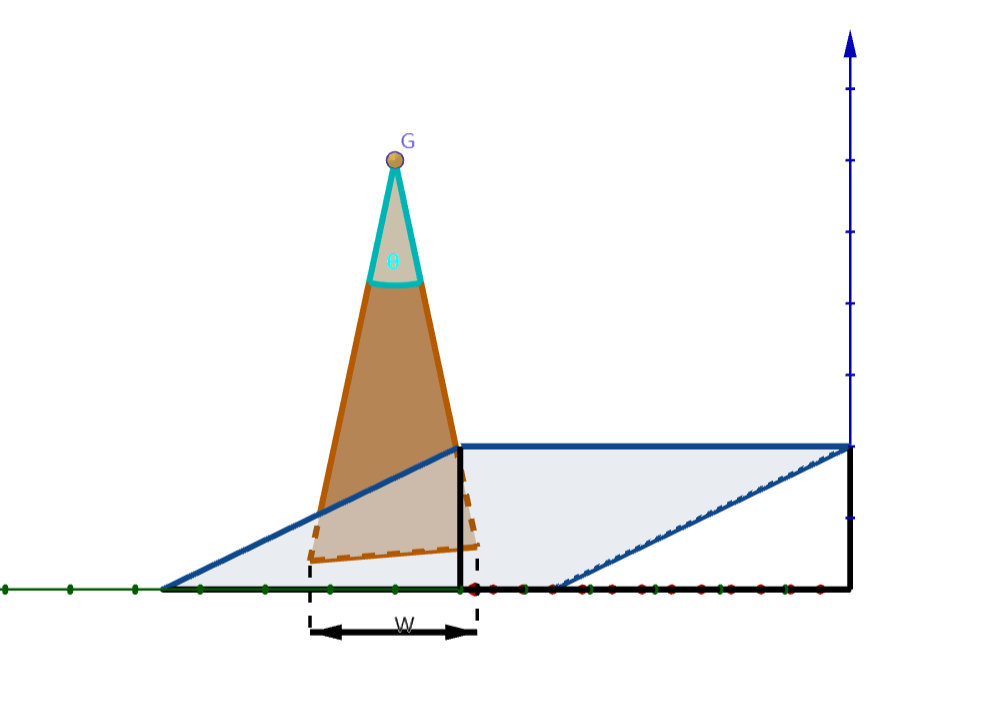
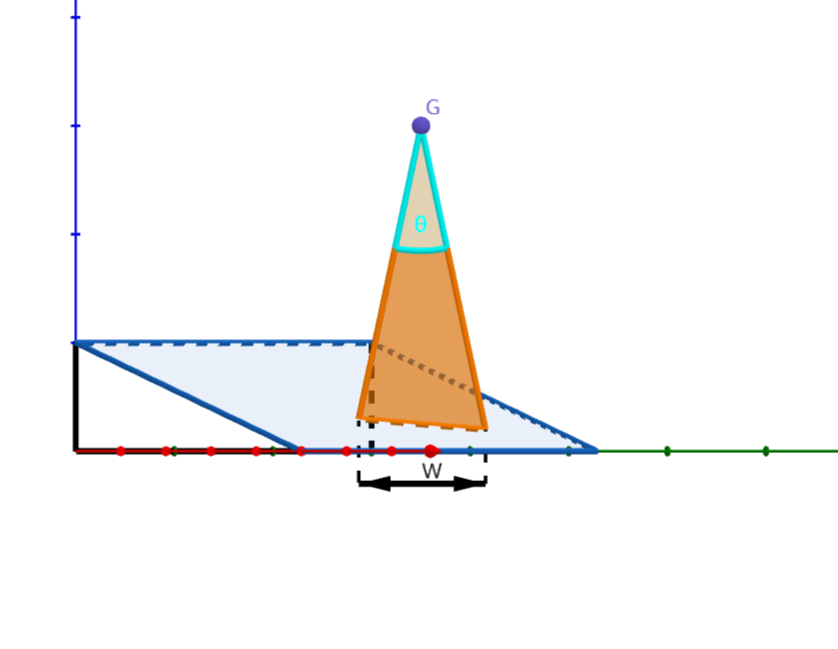
搞定"问题重述"模块

diff --git a/src/B-Analysis.tex b/src/B-Analysis.tex
@@ -22,18 +22,44 @@
     \label{fig:问题一重述图}
 \end{figure}
 
-\textbf{问题2：}已知一个三维空间，如下图。其中，。需根据题意，抽象出二维平面，即将经过船且垂直于测线的平面截面置于二维平面上。再利用与问题1类似的平面几何解法，进而对于不同的测线距中心点处的距离及相对角度$\beta$，分别求解出\textbf{覆盖宽度}$W$。
+\textbf{问题2：}如下图为一个三维空间。其中，相邻两条测线的间距$d$、换能器开角$\theta$、坡度$\alpha$和其中一个部分的海水深度$D_0$均已知。需根据题意，抽象出二维平面，即将经过船且垂直于测线的平面截面置于二维平面上。再利用与问题1类似的平面几何解法，进而对于不同的测线距中心点处的距离及测线的方向角$\beta$，分别求解出\textbf{覆盖宽度}$W$。
 
-\begin{figure}[h]   
+% \begin{figure}[h]   
+%     \centering
+%     \includegraphics[scale=0.3]{res/img/问题二重述图.png}
+%     \caption{\href{https://www.geogebra.org/m/pwzyn5ba}{\textcolor{blue}{问题二立体图}}}
+%     \label{fig:问题二立体图}
+% \end{figure}
+
+% \begin{figure}[h]   
+%     \centering
+%     \includegraphics[scale=0.3]{res/img/问题二重述图_截面图.png}
+%     \caption{\href{https://www.geogebra.org/m/g2rwmqvx}{\textcolor{blue}{问题二截面正视图}}}
+%     \label{fig:问题二截面正视图}
+% \end{figure}
+
+\begin{figure}[htbp]
     \centering
-    \includegraphics[scale=0.3]{res/img/问题二重述图.png}
-    \caption{\href{https://www.geogebra.org/m/pwzyn5ba}{\textcolor{blue}{问题二重述图}}}
+    \begin{subfigure}[b]{0.45\textwidth}
+      \centering
+      \includegraphics[scale=0.18]{res/img/问题二重述图.png}
+      \caption{\href{https://www.geogebra.org/m/pwzyn5ba}{\textcolor{blue}{问题二立体图}}}
+      \label{fig:问题二立体图}
+    \end{subfigure}
+    \hfill
+    \begin{subfigure}[b]{0.45\textwidth}
+      \centering
+      \includegraphics[scale=0.18]{res/img/问题二重述图_截面图.png}
+      \caption{\href{https://www.geogebra.org/m/g2rwmqvx}{\textcolor{blue}{问题二截面正视图}}}
+      \label{fig:问题二截面正视图}
+    \end{subfigure}
+    \caption{问题二重述图}
     \label{fig:问题二重述图}
 \end{figure}
 
-\textbf{问题3：}
+\textbf{问题3：}该问题依旧是在三维空间下的，依旧是换能器开角$\theta$、坡度$\alpha$和其中一个部分的海水深度$D_0$均已知。但是和问题二不同的是，这次需要决定：在测线的覆盖范围为整个规定海域，且重叠率$\eta \in [10\%, 20\%]$的前提下，求出测量长度最短的方案的\textbf{测线的方向角}$\beta$与相邻两条\textbf{测线的间距}$d$（允许任意两对两条相邻的测线不等距）。
 
-\textbf{问题4：}
+\textbf{问题4：}该问题在问题3的基础上，将\textbf{坡面}更换成\textbf{不规则地形}。由于很难将整个海域一点不落地覆盖，该题要求扫描条带\textbf{尽可能}地覆盖整个海域、重叠率$\eta$\textbf{尽可能}控制在$20\%$以下和测量路线\textbf{尽可能}短。给定离散的二维平面上的点对应的海水深度数据，要求给定一个方案的\textbf{测线的方向角}$\beta$与相邻两条\textbf{测线的间距}$d$以满足要求（允许任意两对两条相邻的测线不等距）。
 
 % ==================================================
 % @brief    问题分析
